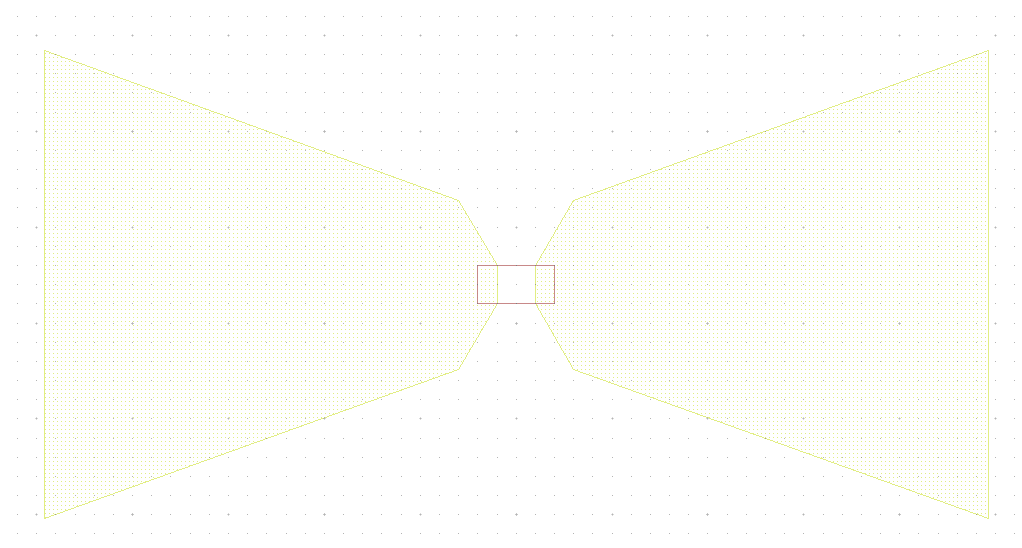
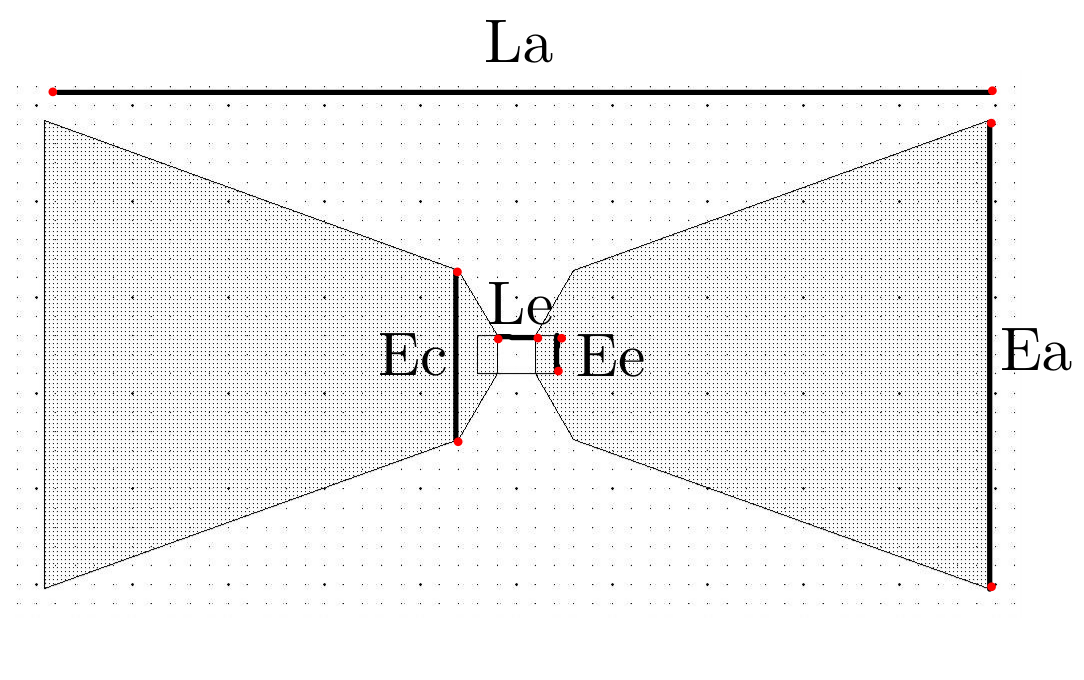
mon interpolation ne sert a rien, en plus: fichiers latex

diff --git a/tex_acg/5week.tex b/tex_acg/5week.tex
@@ -1,1 +1,70 @@
 \section{Semaine 5 - 11 mars}
+
+\subsection{Lundi - Masques}
+
+L'\textbf{objectif} d'aujourd'hui est de créer de masques
+pour que Victor puisse passer en salle blanche la semaine
+prochaine. Les masques son celles qu'on a utilisé à la
+session de nanofabrication. 
+
+Nous allons créer les masques avec le logiciel 
+\textsc{Layout Editor 3D}, avec les données que 
+nous avons obtenu la semaine dernière en optimisant
+la vraie bowtie.
+
+\begin{figure}[h!]
+    \centering
+    \begin{subfigure}[b]{0.4\textwidth}
+        \centering
+        \includegraphics[width=0.8\linewidth]{texfigures/waffer.png}
+        \caption{\label{fig:waffer} Masque de tout le waffer.}
+    \end{subfigure}
+    \begin{subfigure}[b]{0.4\textwidth}
+        \centering
+        \includegraphics[width=0.8\linewidth]{texfigures/waffer_cell.png}
+        \caption{\label{fig:waffer_cell} Zoom sur une cellule du waffer}
+    \end{subfigure}
+    \caption{Masque pour la nanofabrication.}
+\end{figure}
+
+\begin{figure}[h!]
+    \centering
+    \begin{subfigure}[b]{0.4\textwidth}
+        \centering
+        \includegraphics[width=0.8\linewidth]{texfigures/waffer_bowtie.png}
+        \caption{\label{fig:waffer_bowtie} Zoom sur la bowtie.}
+    \end{subfigure}
+    \begin{subfigure}[b]{0.4\textwidth}
+        \centering
+        \includegraphics[width=0.8\linewidth]{texfigures/waffer_cross.png}
+        \caption{\label{fig:waffer_cross} Zoom sur une croix d'alignement.}
+    \end{subfigure}
+    \caption{Zoom sur la masque.}
+\end{figure}
+
+\subsection{Mardi - Ondes planes}
+
+L'\textbf{objectif} d'aujourd'hui sera d'expérimenter
+avec les ondes planes.
+
+La Figure \ref{fig:onde_plane} montre un schéma de la situation
+à laquelle nous nous intéressons.
+
+\begin{figure}[h!]
+    \centering
+    \includegraphics[width=0.5\textwidth]{texfigures/onde_plane.png}
+    \caption{\label{fig:onde_plane} L'antenne est irradiée par un laser (un faisceau gaussien). Nous nous intéressons au champ transmis.}
+\end{figure}
+
+
+Jusqu'à maintenant, on a utilisé le S-parameters pour étudier nos
+simulations. Cependant, le S-parameter n'est pas disponible
+quand on travaille avec une onde plane au lieu d'avec un port.
+
+
+Je pense que à chaque fois qu'on nous
+demande d'expérimenter avec CST nous avons deux obstacles.
+D'abord, nous ne sommes pas assez familiarisés avec le logiciel,
+ensuite, j'ai plusieurs trous dans mes connaissances par rapport
+à ce que nous sommes en train de faire.  Déjà, c'est 
+

diff --git a/tex_acg/7week.tex b/tex_acg/7week.tex
@@ -2,16 +2,41 @@
 
 \subsection{Lundi}
 
-Aujord'hui j'ai travaillé sur le code de Victor. En gros il a essayé de faire une fonction 
-
-\section{``In-text'' listing highlighting}
-
+Aujord'hui j'ai travaillé sur le code de Victor. En gros il a
+essayé de faire une fonction \pythoninline{fit} qui généralise
+les fonctions de Quentin.
 \begin{python}
-class MyClass(Yourclass):
-    def __init__(self, my, yours):
-        bla = '5 1 2 3 4'
-        print bla
+def fit(fct,xdata,ydata,pas):
+    j=np.size(xdata);A=np.zeros(j);f=np.zeros(j);phi=np.zeros(j)
+    for i in range(j-pas-1):
+        P=sc.optimize.curve_fit(fct, xdata[i:pas+i], ydata[i:pas+i])[0]
+        A[i]=P[0]
+        f[i]=ydata[i+int(pas/2)]
+        phi[i]=P[1]
+    return A,f,phi
 \end{python}
+Cependant elle ne marche comme elle devrait. Après beaucoup
+d'effort nous y sommes arrivés:
+\begin{python}
+def fit(fct, xdata, ydata, interval_size, P0, step_size, maxfev=10000):
+
+    N = np.size(xdata)
+    new_xvalues = np.zeros(N)
+    parameters = np.zeros((N, len(P0)))
+    count = 0
+
+    for i in range(0, N-interval_size-1, step_size):
+        P = sc.optimize.curve_fit(fct, xdata[i:i+interval_size], ydata[i:i+interval_size], P0, maxfev)[0]
+        if P[0] > 0.01 :
+            parameters[count] = P
+            new_xvalues[count] = xdata[i+int(interval_size/2)]
+            count += 1
+            P0 = P
+    print(f'\nCurve fitted, input size is {N}, output size is {count}')
+return  new_xvalues[:count], parameters[:count].T
+\end{python}
+
+Avec cette fonction on a pu fitter les envelopes pour la data de l'air et du silicium.
 
 \section{External listing highlighting}
 

diff --git a/tex_acg/3week.tex b/tex_acg/3week.tex
@@ -14,13 +14,12 @@ travers le mode \textit{pick edge}. Je ne suis pas sûr de pourquoi ca change te
 J'ai dans mes notes une formule pour calculer l'impendance du port, et je suis arrivé a obtenir l'impendance
 correcte pour l'antenne de bowtie, mais je ne comprends pas la formule.
 
-\begin{wrapfigure}{R}{0.4\textwidth}
+\begin{figure}[h!]
     \centering
     \includegraphics[width=0.35\textwidth]{texfigures/first_dipole.png}
-    \caption{\label{fig:first_dipole} Une antenne dipolaire en or sur un subtrat de saphire 
-    (Alumina au $96\%$ sans pertes). Les dimensions son $57\mu $m pour la longueur totale De
-    l'antenne, $7\mu $m pour le gap, $10\mu $m pour la base de l'antenne, $0.1\mu $m pour l'épaisseur.}
-\end{wrapfigure}
+    \caption{\label{fig:first_dipole} Une antenne dipolaire en or sur un substrat de saphire (Alumina au $96\%$ sans pertes). Les dimensions sont $57\mu$m pour la longueur totale de l'antenne, $7\mu$m pour le gap, $10\mu$m pour la base de l'antenne, et $0.1\mu$m pour l'épaisseur.}
+\end{figure}
+
 
 Victor a codé pendant toute la journée. On a aussi commencé à travailler avec GitHub. On a aussi assisté
 à un séminaire sur des modèles théoriques pour la création de nouveaux pigments. C'était intéressant.

diff --git a/tex_acg/4week.tex b/tex_acg/4week.tex
@@ -11,8 +11,32 @@ L'\textbf{objectif} d'aujourd'hui c'est de
 
 Pour les simulations, on a maintenant ajouté une couche d'oxide SiO$_{2}$. C'est cela qu'on voit dans la figure \ref{fig:oxide_film}.
 
-\begin{wrapfigure}{R}{0.4\textwidth}
+\begin{figure}[h!]
     \centering
     \includegraphics[width=0.35\textwidth]{texfigures/ocide_film.png}
-    \caption{\label{fig:oxide_film} On ajoute une couche d'oxide au dessus du substrat.}
-\end{wrapfigure}
+    \caption{\label{fig:oxide_film} On ajoute une couche d'oxide au-dessus du substrat.}
+\end{figure}
+
+Les valeurs obtenus à travers CST son visibles dans la Table \ref{tab:parameters}
+
+
+
+\begin{table}[h!]
+    \centering
+    \begin{tabular}{|c|c|}
+        \hline
+        Parameter & Value ($\mu$m) \\
+        \hline
+        Ec & 45 \\
+        La & 246 \\
+        Ea & 123 \\
+        Le & 10 \\
+        \hline
+    \end{tabular}
+    \caption{Parameters and their values in micrometers.}
+    \label{tab:parameters}
+\end{table}
+
+\subsection{Mardi}
+
+Mardi à été le jour de la session de nanofabrication. 

diff --git a/tex_acg/ac_main.tex b/tex_acg/ac_main.tex
@@ -16,14 +16,16 @@
 \usepackage{subcaption}
 \usepackage{wrapfig}
 \usepackage{tcolorbox}
+\usepackage{setspace}
+\setstretch{1.2}
 \listfiles
 
 %*********
 %Comandos
 %*********
 % Default fixed font does not support bold face
-\DeclareFixedFont{\ttb}{T1}{txtt}{bx}{n}{12} % for bold
-\DeclareFixedFont{\ttm}{T1}{txtt}{m}{n}{12}  % for normal
+\DeclareFixedFont{\ttb}{T1}{txtt}{bx}{n}{9} % for bold
+\DeclareFixedFont{\ttm}{T1}{txtt}{m}{n}{9}  % for normal
 
 % Custom colors
 \usepackage{color}
@@ -75,10 +77,17 @@ showstringspaces=false
 \input{glossaire.tex}
 \newpage
 \input{1week.tex}
+\newpage
 \input{2week.tex}
+\newpage
 \input{3week.tex}
+\newpage
 \input{4week.tex}
+\newpage
 \input{5week.tex}
+\newpage
 \input{6week.tex}
+\newpage
 \input{7week.tex}
+\newpage
 \end{document}
